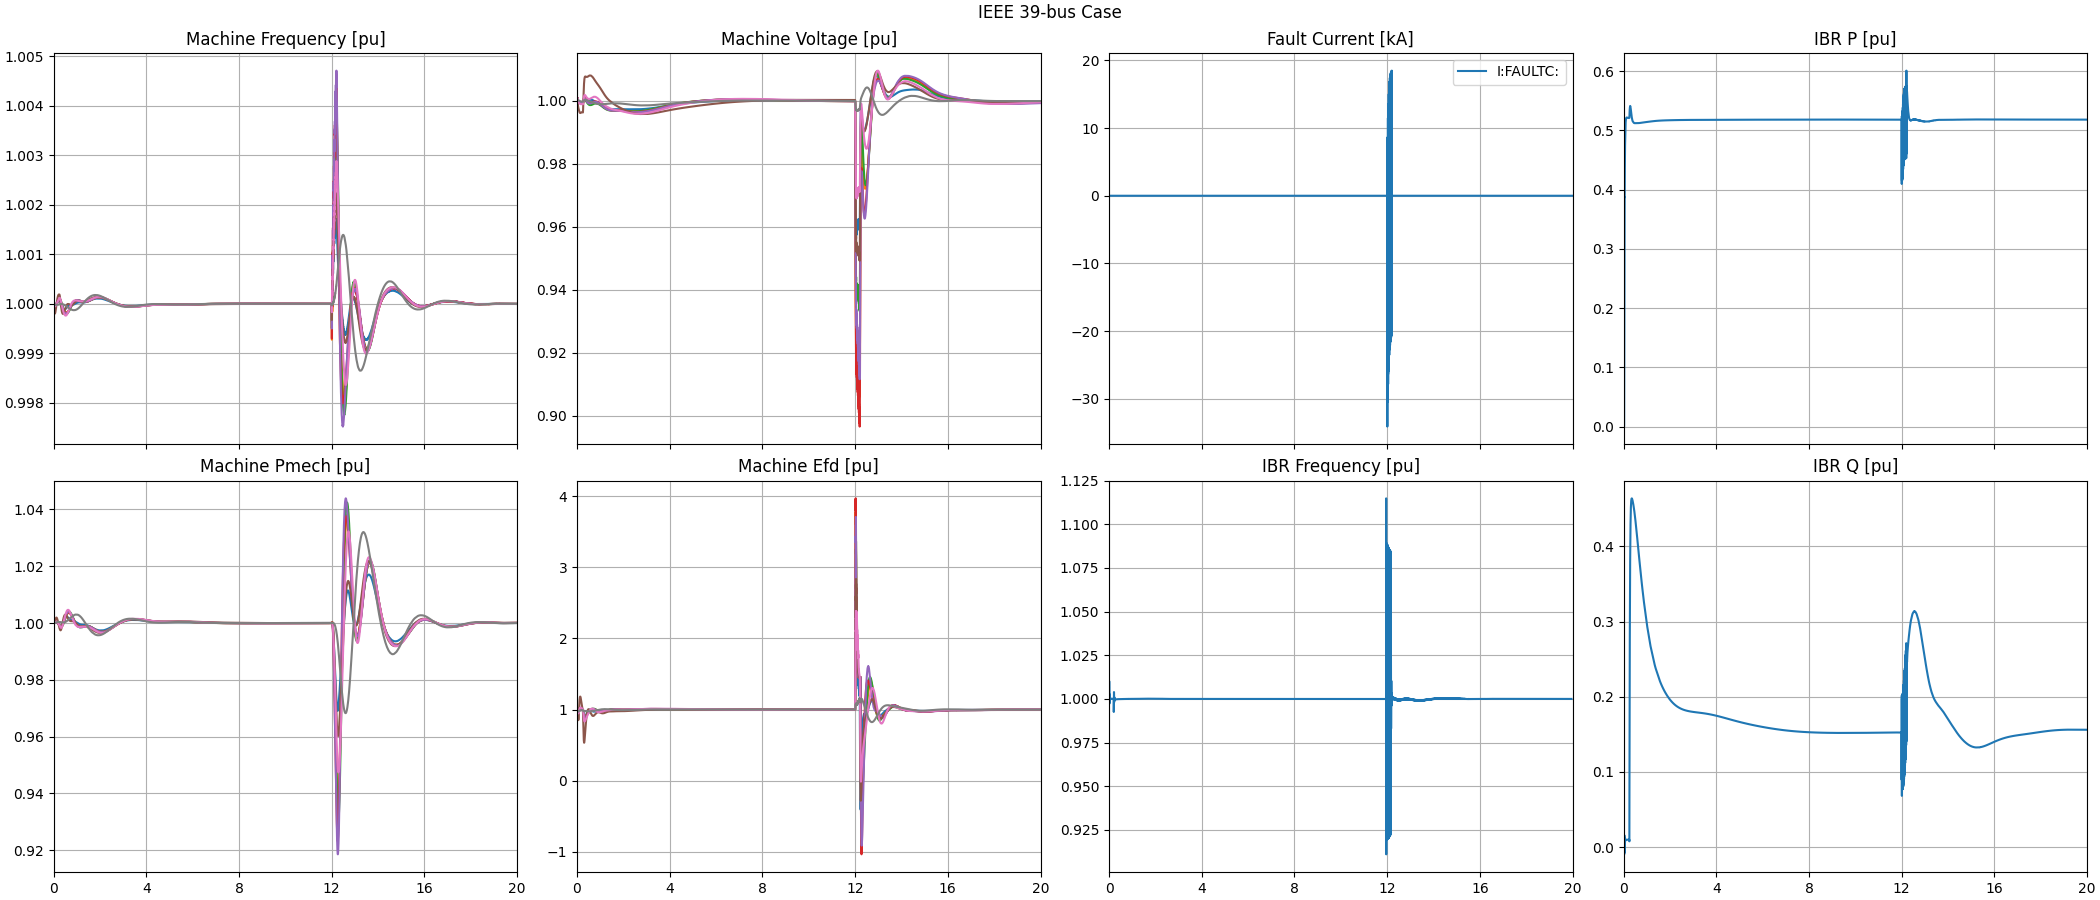
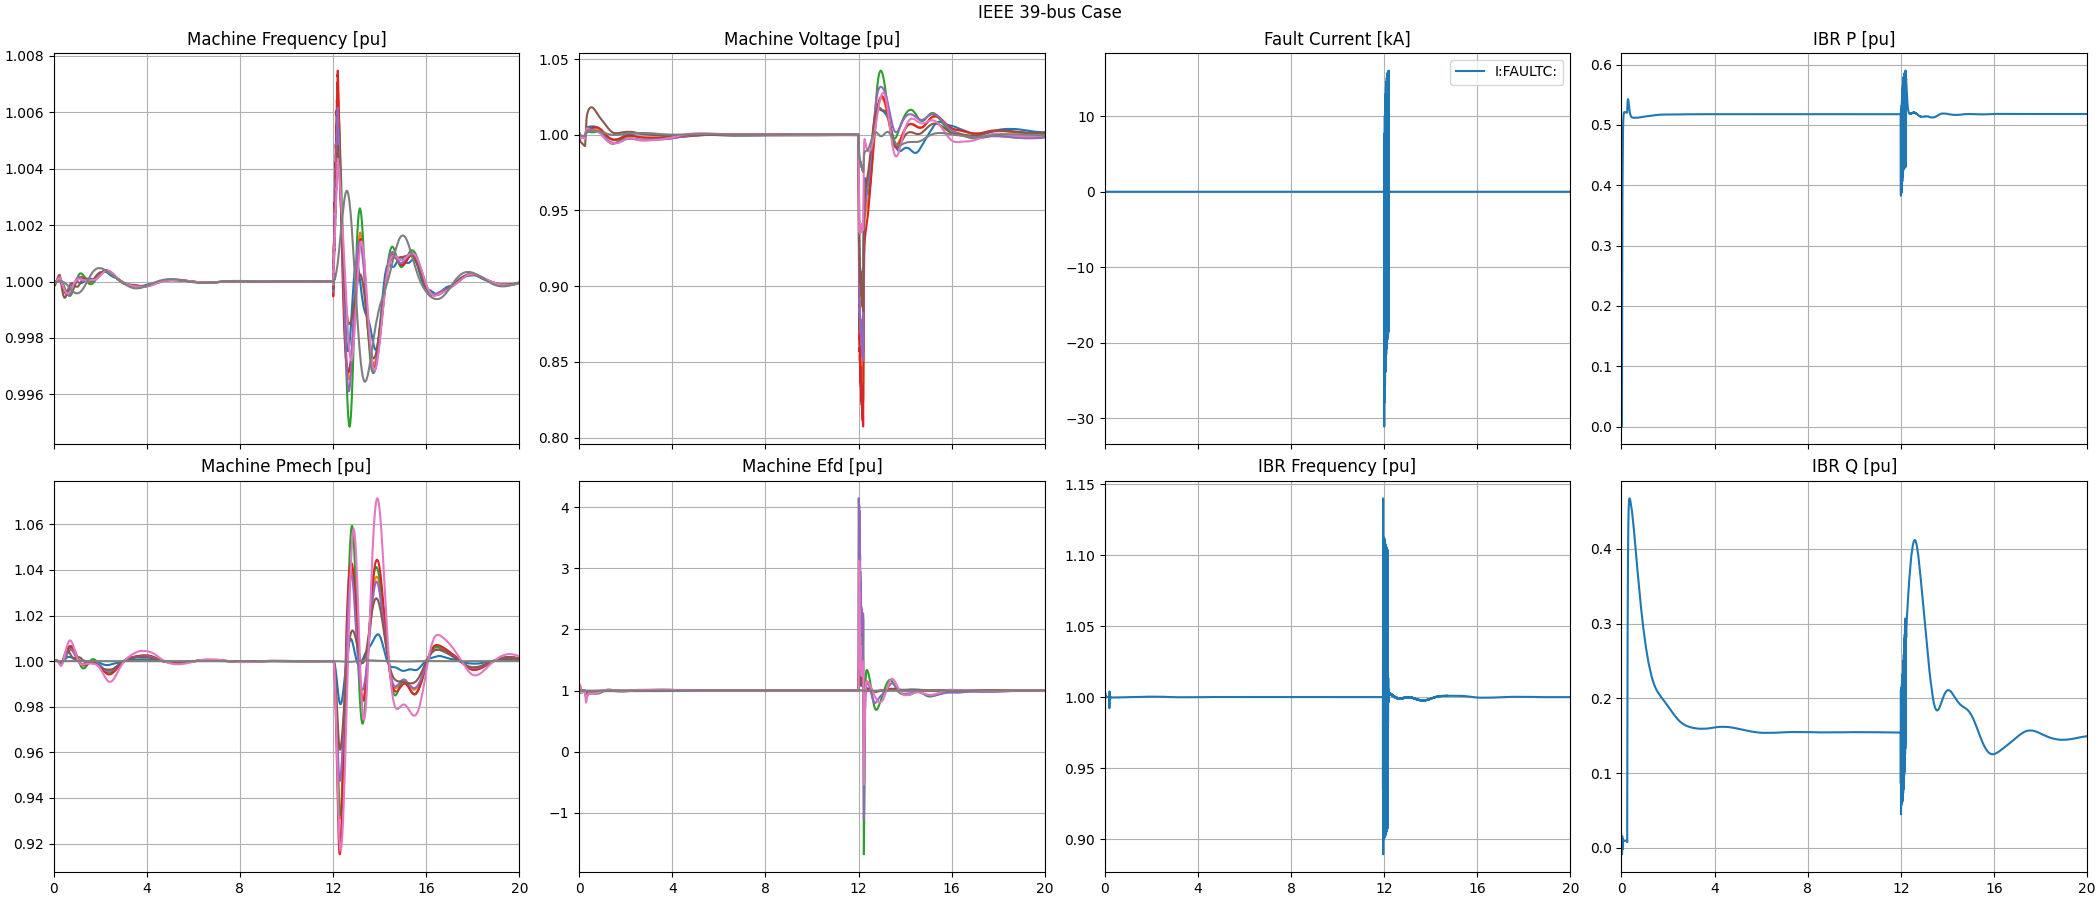
IEEE39 runs from PNNL dyr file, after increasing the built-in model exciter limits

diff --git a/src/emthub/create_atp.py b/src/emthub/create_atp.py
@@ -181,7 +181,7 @@ def AtpRXC(r, x, c):
 def AtpRZTL(r, z, t, l):
   return '{:12e}{:12e}{:12e}{:12e}'.format(r, z, t, l)
 
-def AtpFit6(x):
+def AtpFit6(x): # TODO: 1e-9 comes back 10.e-10, which is too long
   if x == 0.0:
     return '0.0000'
   elif x >= 10000:
@@ -611,8 +611,10 @@ def AppendMachineDynamics (bus, vpu, deg, mach, gov, exc, pss, ap, gsu_ang):
       v0pu = vpu + 1.0 / ka
     else:
       print ('** Unrecognized exciter data for', exc['type'], 'at bus', bus)
+  if ka < 1.0:
+    print ('** Exciter gain {:.3f} at {:s} is too low for built-in model limiters'.format (ka, str(bus)))
   # stabilizer parameters (default Pss1A)
-  psk5 = 0.0
+  psk5 = max(0.0, 1e-8)
   psa1 = 2e-9
   psa2 = 1e-18
   pst3 = 2.0
@@ -624,7 +626,7 @@ def AppendMachineDynamics (bus, vpu, deg, mach, gov, exc, pss, ap, gsu_ang):
   if pss is not None:
     d = pss['data']
     if pss['type'] == 'EMTPss1A':
-      psk5 = d['ks'] # t1 and t2 from CIM not used?
+      psk5 = max(d['ks'],1e-8) # t1 and t2 from CIM not used?
       psa1 = max(d['a1'],2e-9)
       psa2 = max(d['a2'],1e-18)
       pst3 = max(d['t3'],1e-9)
